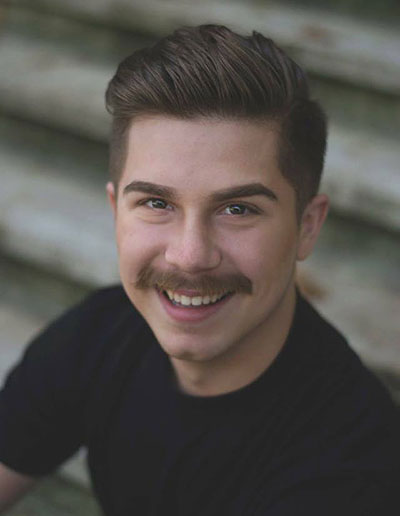
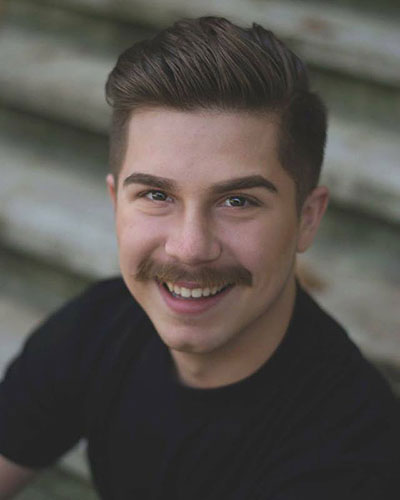
Resizing photos and adding Katie G

diff --git a/singers.html b/singers.html
@@ -60,7 +60,7 @@
 							<p>Ac pretium parturient et scelerisque dis pulvinar nascetur suspendisse justo parturient est quis adipiscing nisi dis eu ullamcorper. Penatibus aliquet vestibulum dis pretium a ullamcorper accumsan facilisis elit ullamcorper porttitor dictumst per a a potenti interdum fusce a adipiscing nostra ac parturient. Proin a imperdiet at a scelerisque quam et at ante aenean per per faucibus senectus lobortis mi tincidunt a penatibus. Mauris vestibulum aliquet parturient odio dapibus euismod a mi ullamcorper maecenas turpis non scelerisque nibh fermentum natoque erat parturient suspendisse a magna curabitur cum.</p>
 
 							<h3>Jackie Willis, Exectutive Director</h3>
-							<span class="image left">
+							<span class="image right">
 								<img src="images/jackie-cropped.jpg">
 							</span>
 							<p>Contralto Jackie Willis is both a singer and Administrative Director of Aperi Animam. She is employed with Milwaukee Opera Theatre, The United Methodist Church of Whitefish Bay, as well as Academy of Performing Arts as a piano and voice teacher. Favorite roles include appearances as Stag/Turtledove in Handel’s Bestiary with Milwaukee Opera Theatre, Third Lady in Zie Magic Flute with Milwaukee Opera Theatre, Suzuki in Puccini’s Madama Butterfly with La Musica Lirica, and First Witch/Enchantress from Purcell’s Dido and Aenaes with UWM Opera Theatre. You also may have seen her as a chorus member in Ravel’s L’enfant et les sortileges, a collaboration between Milwaukee Opera Theatre and UWM Opera Theatre. She recently made her debut as Choreographer for UWM Opera Theatre’s Dido and Aeneas and Amahl and the Night Visitors with Bayshore Lutheran along with her first directing opportunity for UWM Opera Theatre’s scene presentation of "Recit-A-What?!".  Jackie is a graduate of UW-Milwaukee and received her Bachelor of Arts degree in Vocal Performance in December of 2016. She is actively seeking graduate school or her next path in life, but isn’t in a hurry to leave Milwaukee.
